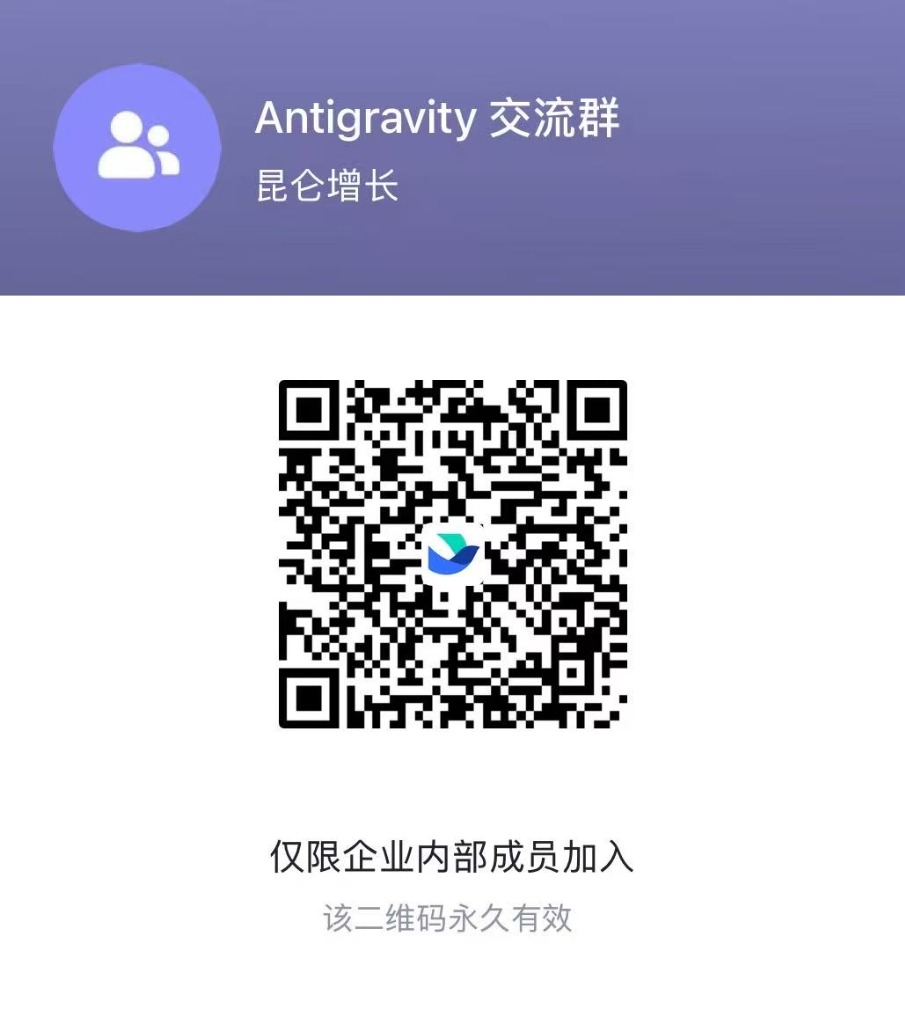
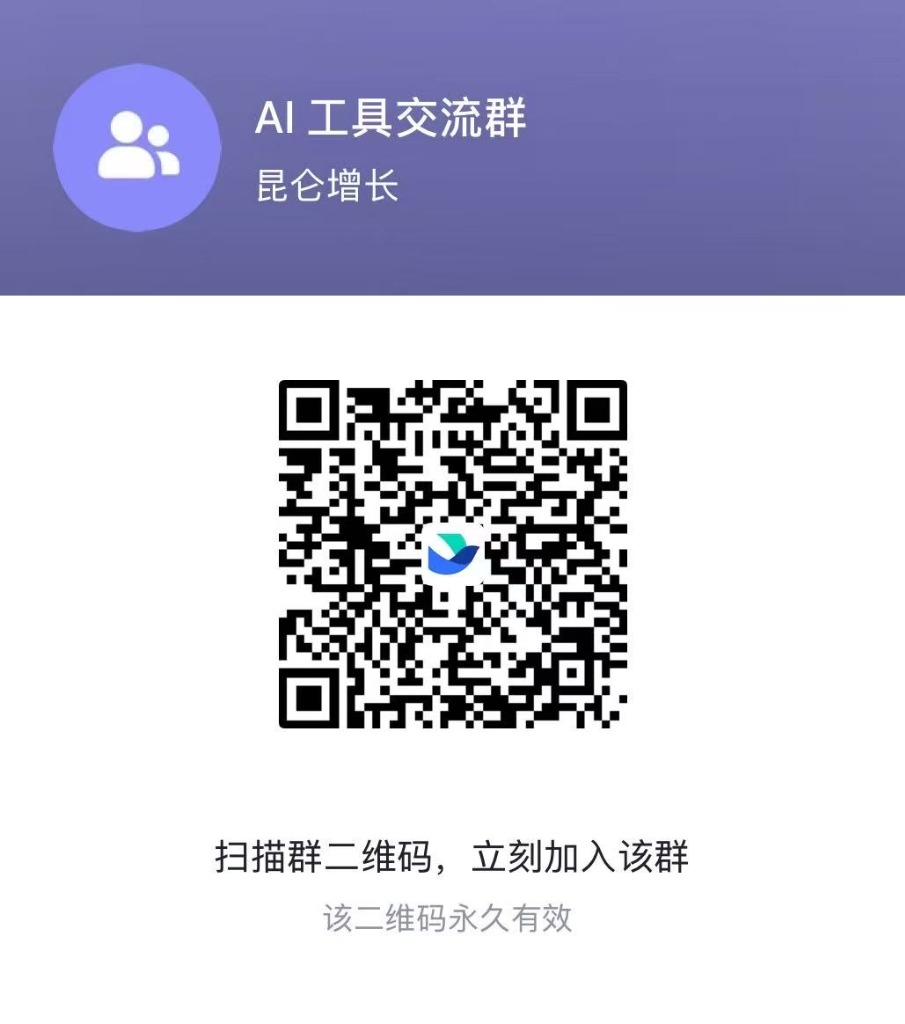
feat(community): update Feishu group QR code with public permanent access

diff --git a/README.md b/README.md
@@ -142,7 +142,7 @@ curl -fsSL https://raw.githubusercontent.com/AIMarshallLee/antigravity-zh/main/u
     <tr>
       <td align="center">
         <img src="assets/feishu-group.jpg" width="220" alt="飞书交流群" /><br />
-        <b>飞书交流群 (永久有效)</b>
+        <b>飞书：AI 工具交流群 (永久有效)</b>
       </td>
       <td align="center">
         <img src="assets/wechat-group.png" width="220" alt="微信交流群" /><br />
